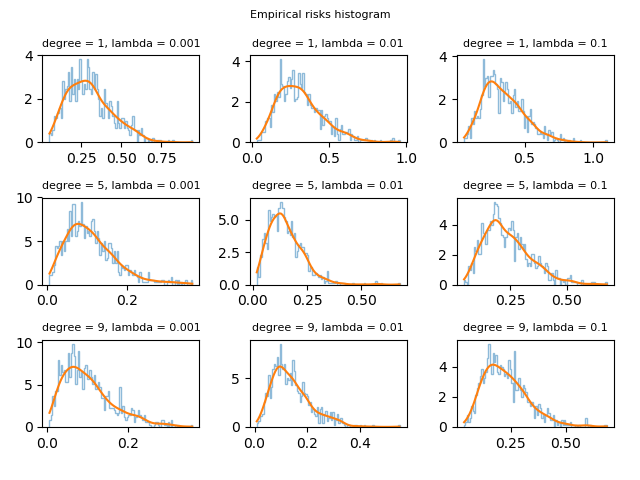
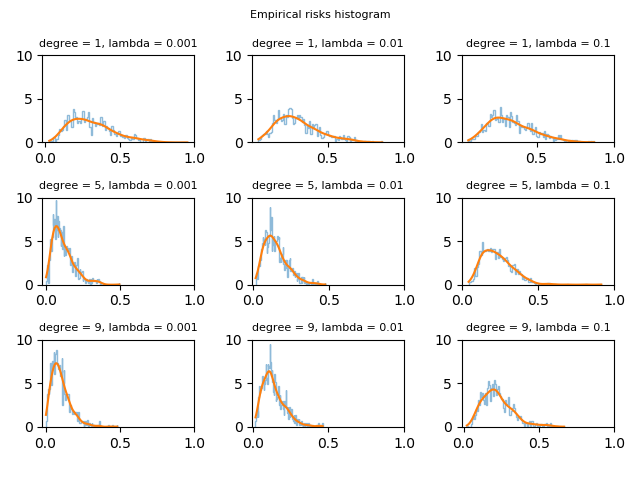
modified scales in plot

diff --git a/pa6.py b/pa6.py
@@ -70,6 +70,8 @@ for d in degrees:
         # plotting the histogram outline and the smooth curve corresponding to it
         density = stats.gaussian_kde(empirical_risks)
         n, curve, _ = plt.hist(empirical_risks, bins=100, alpha=0.5, histtype=u'step', density=True)
+        plt.ylim(top=10)
+        plt.xlim(right=1.0)
         plt.plot(curve, density(curve))
 plt.suptitle("Empirical risks histogram",fontsize=8)
 plt.savefig("results/degree_vs_lambda")
